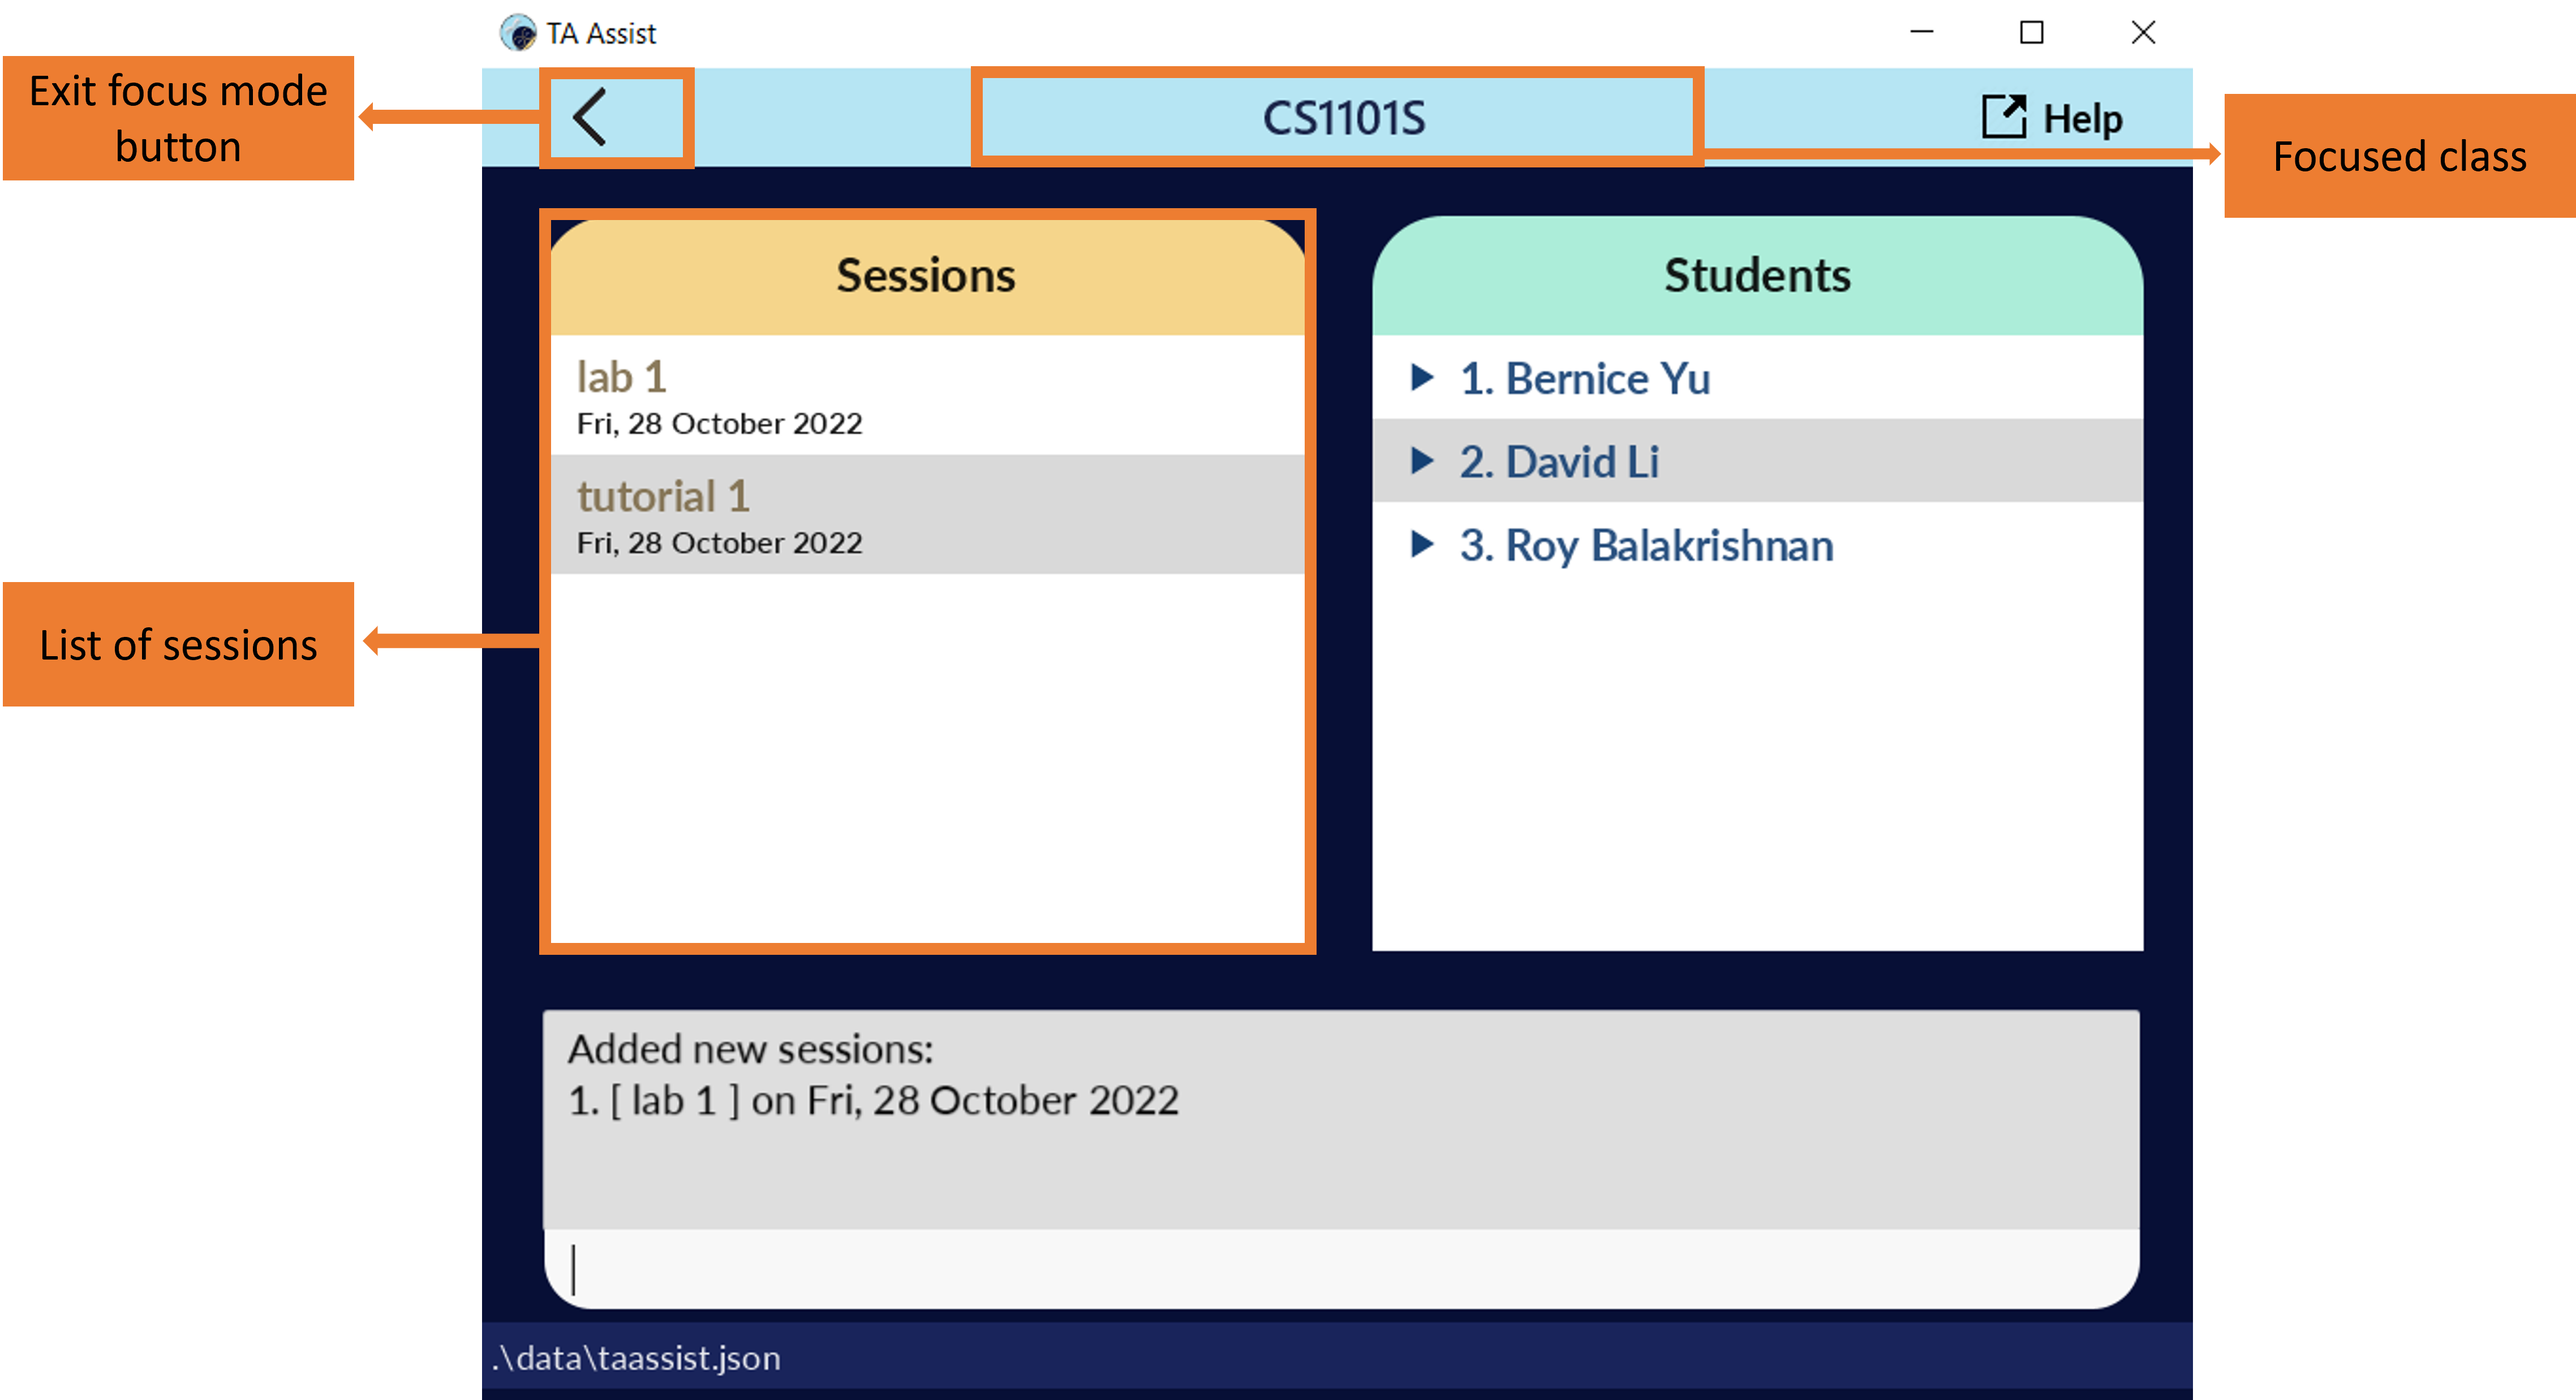
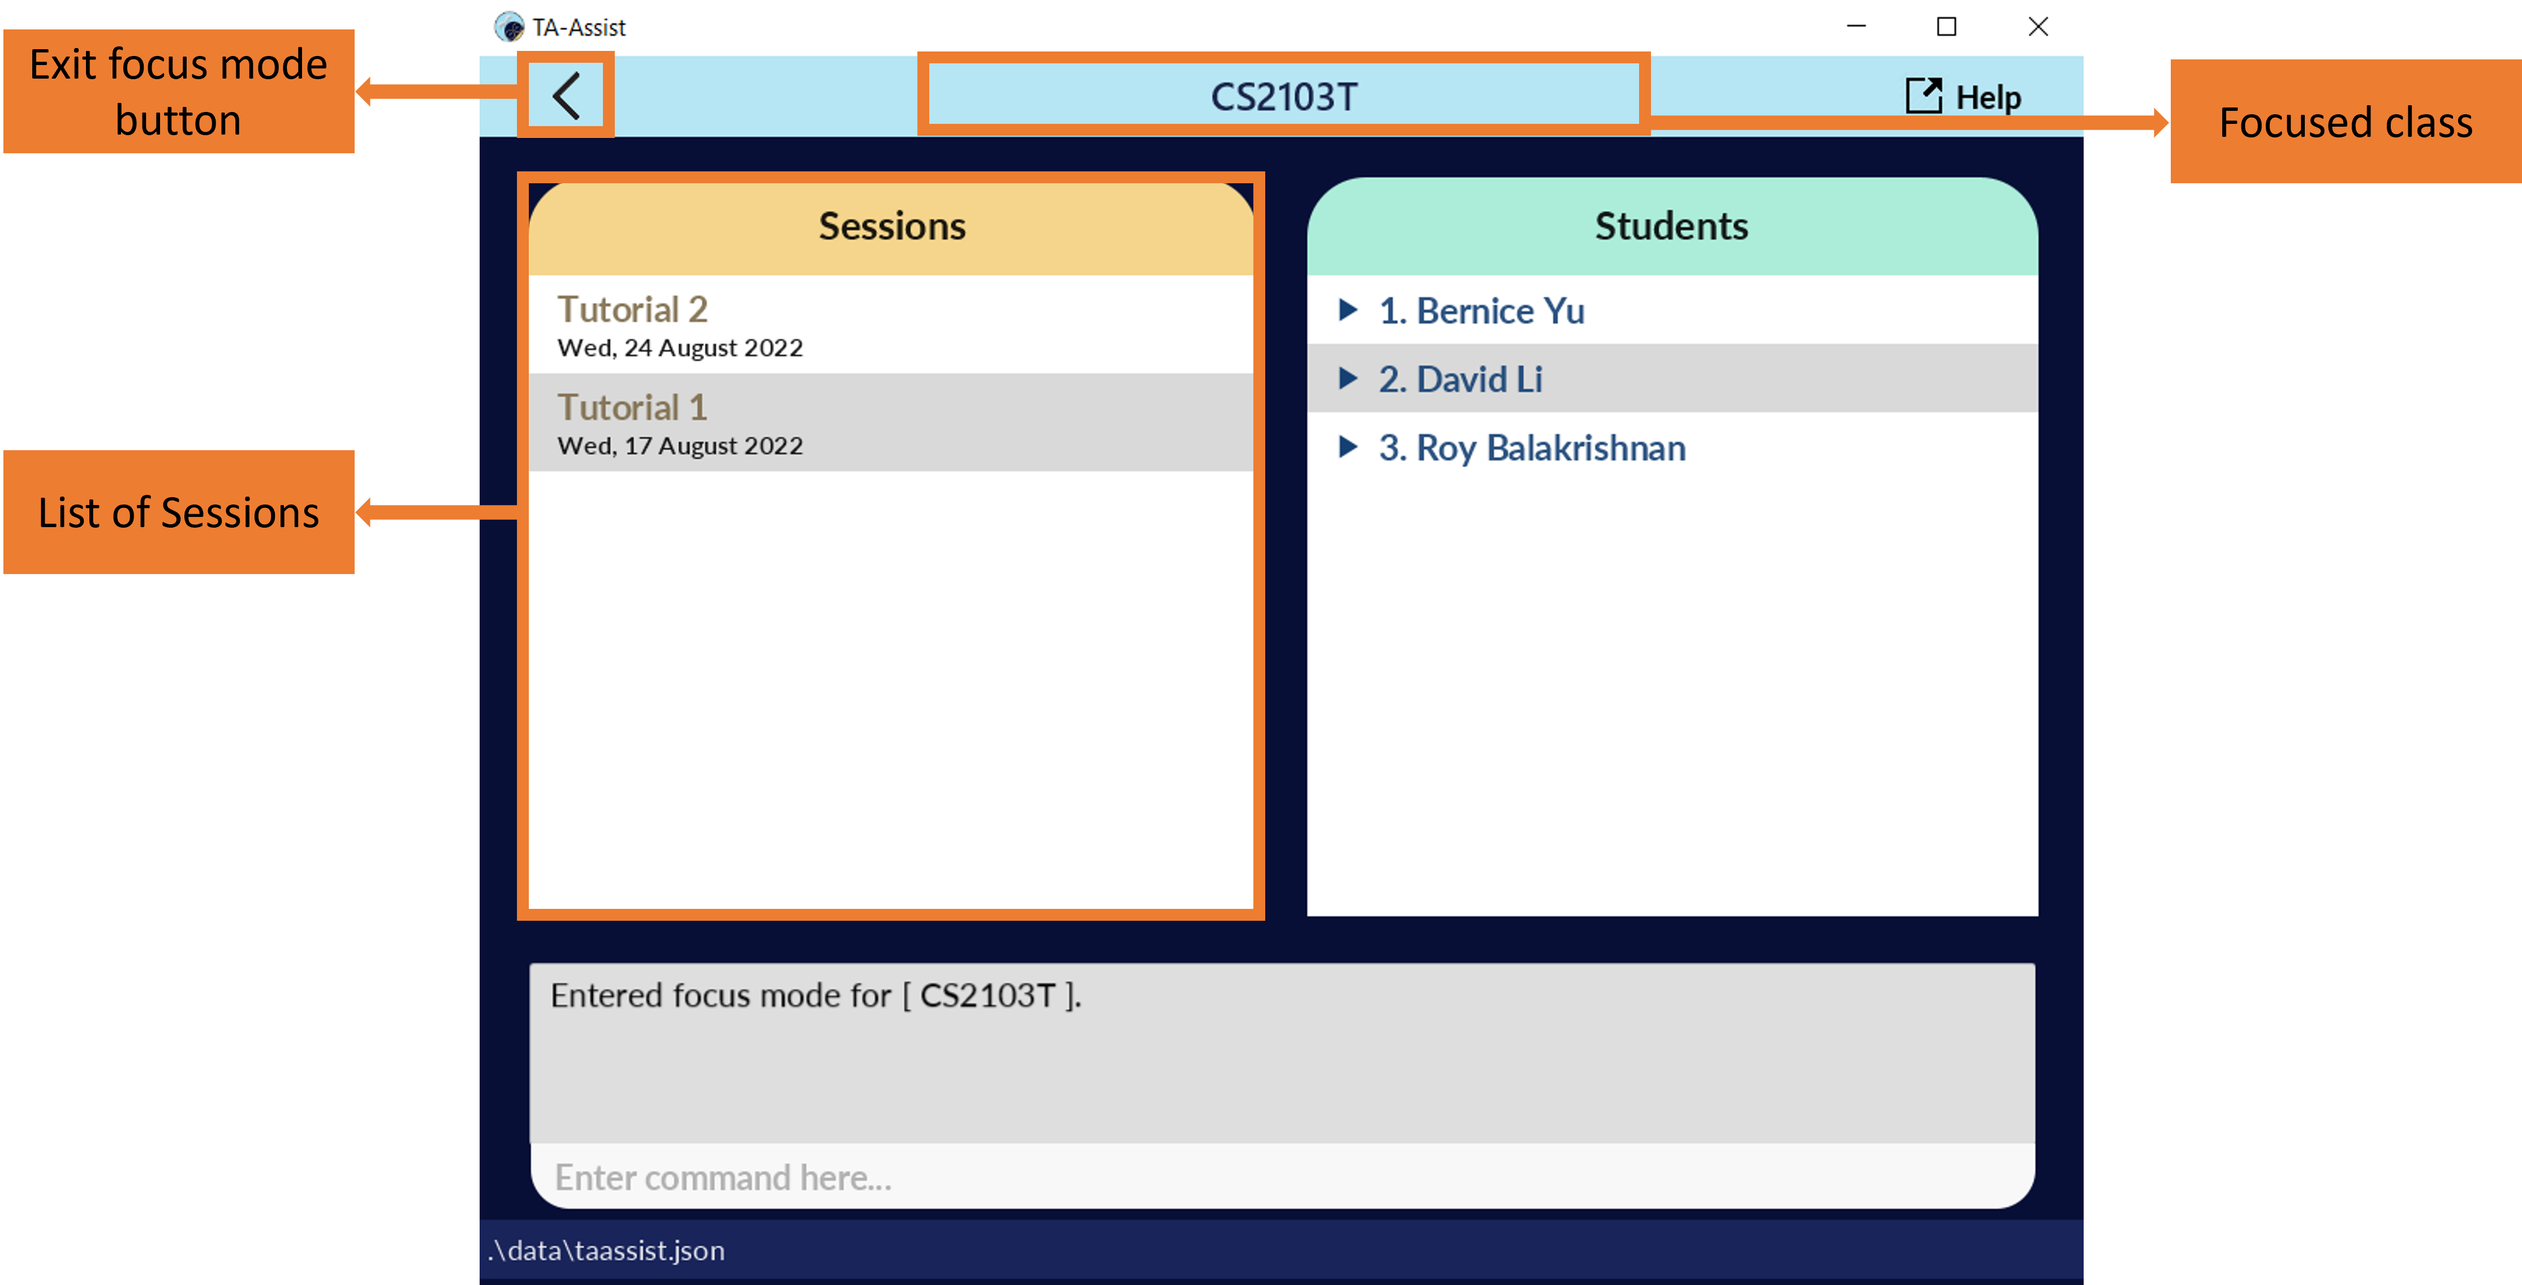
Update UG

Changed region(s): [[0.0, 0.0, 1.0, 1.0]]

diff --git a/docs/UserGuide.md b/docs/UserGuide.md
@@ -83,14 +83,19 @@ Let's first begin with the commands available in the default mode.
 
 {% include note.html content="
 
-Redirects you to this User Guide page. If the attempt was unsuccessful, the following help window appears.
-" %}
+Automatically redirects you to this User Guide page.
 
-![help message](images/helpMessage.png)
-The above message emerges when the redirection fails.
+" %}
 
 
 Format: `help`
+* If the attempt to redirect you to this User Guide page fails, the following help window appears:
+
+  ![help message](images/helpMessage.png)
+
+  You can click on the "**Copy URL**" button to copy the URL shown in the help window, then paste the URL in the address bar of your
+  favourite browser to visit this User Guide page.
+
 
 ### Add a student: `add`
 
@@ -122,8 +127,8 @@ Format: `edit INDEX [n/NAME] [p/PHONE_NUMBER] [e/EMAIL] [a/ADDRESS]`
 Examples:
 * `edit 2 n/John Doe` changes the 2nd student’s name to **John Doe**.
 * `edit 4 e/john.doe@example.com a/38 College Avenue East, 138601` changes the 4th student’s:
-  * E-mail to **john.doe@example.com**
-  * Address to **38 College Avenue East, 138601**
+  * E-mail to **john.doe@example.com**.
+  * Address to **38 College Avenue East, 138601**.
 
 ### Delete a student: `delete`
 
@@ -157,9 +162,9 @@ Format: `find KEYWORD...
 Examples:
 * `find bert` finds students with **bert** in their name (case-insensitive), i.e. **Edbert Geraldy**, **Bert Hendrick**, **Gerard Albert**, etc.
 * `find ben chris` finds students with either **ben** or a **chris** in their name, i.e. **chris ben**, **wonders ChRIs**, **bEn ten**, etc.
-* `find alex david` returns `Alex Yeoh`, `David Li`<br>
+* `find alex david` returns `Alex Yeoh`, `David Li`.
 
-  ![result for 'find alex david'](images/findAlexDavidResult.png)
+  <img src="images/findAlexDavidResult.png" width="600"/>
 
 {% include tip.html content="
 
@@ -194,13 +199,12 @@ Adds one or more classes to TA-Assist.
 " %}
 
 Format: `addc c/CLASS_NAME...`
-* Add classes with specified names. 
+* Adds the classes with the specified names.
+* Class names are converted to **upper-case**.
+  * e.g. `addc c/cs1101s` adds a class **CS1101S**.
 * The class names are **case-insensitive**.
-  * e.g. If a class with a name **CS1101S** already exists, `addc c/cs1101s` does not add a
-  new class `cs1101s`.
-* If there are duplicate class names, the class name is taken to be the last valid class parameter `c/`.
-  * e.g. If a class with a name **CS1101S** does not exist, `addc c/CS1101S c/cs1101s` adds one class with the name
-  **cs1101s**.
+  * e.g. If a class with a name **CS1101S** already exists, `addc c/cs1101s` does not add
+  another **CS1101S** class.
 
 Examples:
 * `addc c/CS2103T c/CS2100` adds the classes named **CS2103T** and **CS2100**.
@@ -283,7 +287,8 @@ Format: `focus c/CLASS_NAME`
 * The class name is **case-insensitive**.
 * If successful, the GUI changes to one that is similar to the one below:
 
-![Example Excel file](images/sampleFocusedGui.png)
+
+  <img src="images/sampleFocusedGui.png" width="600"/>
 
 Example:
 * `focus c/CS1231S` enters focus mode for the **CS1231S** class, allowing you to manage data relating to **CS1231S**.
@@ -351,11 +356,11 @@ overall grade for the module CS2100.
 Format: `adds s/SESSION_NAME... [d/DATE]`
 * Creates new sessions with names `SESSION_NAME` on the same `DATE`. If the `DATE` field is empty, the current date is used instead.
 * `DATE` field should follow the format `YYYY-MM-DD`.
+* Session names are **capitalised** (i.e. the first character of each word will be converted to upper-case. The remaining characters
+  of the word will be converted to lower-case).
+  * e.g. `adds s/tutorial ONE` adds a session **Tutorial One**. `adds s/_tutorial_2` adds a session **_tutorial_2**.
 * The session names are **case-insensitive**.
-  * e.g. If a session **Lab 1** already exists, `adds s/lab 1` does not create a new session **lab 1**. 
-* If there are session names, the session name is taken to be the last valid session parameter `s/`.
-  * e.g. If a session with a name **LAB1** does not exist, `adds s/LAB1 s/lab1` adds one session with the name
-    **lab1**.
+  * e.g. If a session **Lab 1** already exists, `adds s/lab 1` does not create another **Lab 1** session.
 
 Example:
 - `adds s/Lab1 s/Tutorial1 d/2022-08-11` creates sessions `Lab1` and `Tutorial1` on 11 August 2022.
@@ -407,13 +412,12 @@ Format: `scores s/SESSION_NAME`
 Example:
 
 * `scores s/tutorial 1` shows the grades of all students for the session **tutorial 1**, as shown below.
-  <br/>   
-
-  <img src="images/scoresAssignment1Result.png" width="600"/>
+  
+  <img src="images/sampleScoresGui.png" width="600"/>
 
   In the above example,
-  * **Bernice Yu** has been allocated a score of **10.0** for **tutorial 1**.
-  * **tutorial 1** for **Alex Yeoh**, **Charlotte Oliveiro** and **Irfan Ibrahim** have not been graded, hence their cells have been marked red.
+  * **Bernice Yu** has been allocated a score of **10.0** for **Tutorial 1**.
+  * **Tutorial 1** for **David Li** and **Roy Balakrishnan** has not been graded, hence their cells have been marked red.
 
 ### View session grades of student: `view`
 
@@ -445,15 +449,14 @@ of all the data.
 " %}
 
 Format: `export`
-
-- The exported class data includes:
+* The exported class data includes:
   * Student names of the class.
   * All session names of the class.
   * The grades of the students corresponding to each session.
-- An example generated csv file when opened in Microsoft Excel:
+* An example generated csv file when opened in Microsoft Excel:
 ![Example Excel file](images/exampleExcelFile.png)
-  - First column shows all the student names.
-  - Subsequent columns show the grade for a student for a session (e.g. **David Li** scores **0** for **Tutorial 1**).
+  * First column shows all the student names.
+  * Subsequent columns show the grade for a student for a session (e.g. **David Li** scores **0** for **Tutorial 1**).
 
 ### Exit focus mode: `unfocus`
 
@@ -487,36 +490,36 @@ Format: `unfocus`
 For all parameters, the following constraints are applied:
 * As Ta-Assist uses prefixes such as `p/` and `c/` to identify the start of a new parameter, all parameters have the implicit constraint that they must not contain prefixes
   of another parameter if that other parameter is being used in a command. 
-  * e.g. We can not add a student with the address `Commongrove n/123A` as the `n/123A` prefix will be parsed by Ta-Assist as the Student's name.
+  * e.g. You cannot add a student with the address `Commongrove n/123A` as the `n/123A` prefix will be parsed by Ta-Assist as the Student's name.
 
 The following is the list of all parameters used in TA-Assist along with its constraints:
 
 * `INDEX` 
-  * Indices must be a positive integer
-  * Indices must be within the indices shown in the displayed list
+  * Indices must be a positive integer.
+  * Indices must be within the indices shown in the displayed list.
 * `KEYWORD` 
-  * Search keywords can not contain spaces
+  * Search keywords can not contain spaces.
 * `n/NAME` 
-  * Student names must not be empty 
-  * Student names must only contain alphanumeric characters and spaces
+  * Student names must not be empty.
+  * Student names must only contain alphanumeric characters and spaces.
 * `p/PHONE_NUMBER`
-  * Phone numbers must only contain numbers
-  * Phone numbers must be at least 3 digits long
+  * Phone numbers must only contain numbers.
+  * Phone numbers must be at least 3 digits long.
 * `e/EMAIL`
-  * E-mails must be of the format `local-part@domain`, i.e. `johndoe+work@s.mail.com`
-  * `local-part` must only contain alphanumeric characters and these special characters, excluding the parentheses, (`+_.-`)
-  * `domain` is made up of domain labels, seperated by period
-    * Each `domain` must end with a domain label of at least 2 characters long
-    * Each domain label must start and end with alphanumeric characters
+  * E-mails must be of the format `local-part@domain`, i.e. `johndoe+work@s.mail.com`.
+  * `local-part` must only contain alphanumeric characters and these special characters, excluding the parentheses, (`+_.-`).
+  * `domain` is made up of domain labels, seperated by period.
+    * Each `domain` must end with a domain label of at least 2 characters long.
+    * Each domain label must start and end with alphanumeric characters.
     * Each domain label must consists of only alphanumeric characters, seperated only by hyphens, if any.
 * `a/ADDRESS`
-  * Addresses must not be empty
+  * Addresses must not be empty.
 * `c/CLASS_NAME`
-  * Class names must be alphanumeric
-  * Class names must not exceed 25 characters
+  * Class names must be alphanumeric.
+  * Class names must not exceed 25 characters.
 * `s/SESSION_NAME`
-  * Session names must not be empty
-  * Session names must only contain alphanumeric characters, underscores, and spaces
+  * Session names must not be empty.
+  * Session names must only contain alphanumeric characters, underscores, and spaces.
 * `d/DATE`
-  * Dates must be of the format `YYYY-MM-DD`, i.e. 25th May 2022 must be written as `2022-05-25`
-  * Dates must be a valid date, i.e. `2001-02-29` is not a valid date
+  * Dates must be of the format `YYYY-MM-DD`, i.e. 25th May 2022 must be written as `2022-05-25`.
+  * Dates must be a valid date, i.e. `2001-02-29` is not a valid date because the year 2001 is not a leap year.
